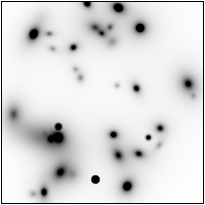
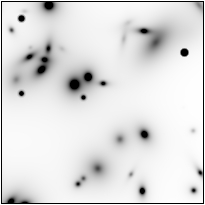
Default PSF FWHM changed to 5 pixels (better for demonstration).
Changed example images.

diff --git a/src/ui.c b/src/ui.c
@@ -53,7 +53,7 @@ setdefaultoptions(struct mockparams *p)
   p->s1        =201;
   p->sky       =10000.0f;
   p->trunc     =5;
-  p->psf_p1    =3;
+  p->psf_p1    =5;
   p->psf_p2    =3;
   p->histmin   =-250;
   p->histmax   =700;

diff --git a/README.md b/README.md
@@ -14,12 +14,13 @@ input), it will make random Sersic profiles (of galaxies) and convolve
 them with a Moffat PSF. As an option, `mockgals` will also produce
 histograms of the no noised and noised images.  An example random set
 of mock galaxies with 50 mock galaxies placed randomly in the image
-can be seen below. Left prior to convolution with with PSF, middle
-after convolving with the PSF, right: After adding noise.
+can be seen below. Left, image prior to convolution with with PSF.
+Middle, after convolving with a FWHM of 5 pixels PSF. Right: After
+adding noise.
 
-<img src="https://raw.github.com/makhlaghi/mockgals/master/doc/mockgals-figures/s1_noconv.jpg"/>
+<img src="https://raw.github.com/makhlaghi/mockgals/master/doc/mockgals-figures/s1_noconv.jpg" />
 <img src="https://raw.github.com/makhlaghi/mockgals/master/doc/mockgals-figures/s1_conv.jpg" />
-<img src="https://raw.github.com/makhlaghi/mockgals/master/doc/mockgals-figures/s1_noise.jpg" />
+<img src="https://raw.github.com/makhlaghi/mockgals/master/doc/mockgals-figures/s1_noised.jpg" />
     
 The noise for every pixel is a random value taken from a Gaussian
 distribution with sigma=sqrt(sky+pixel value) and mean=sky+pixel value.
